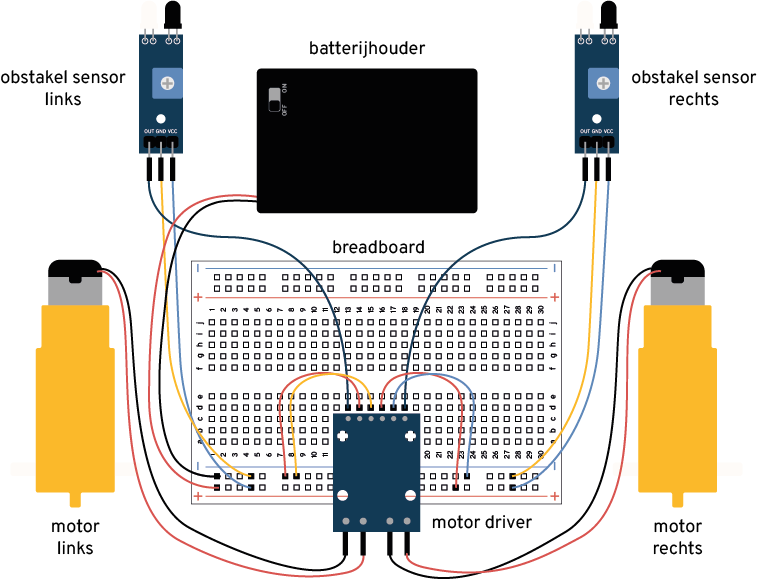
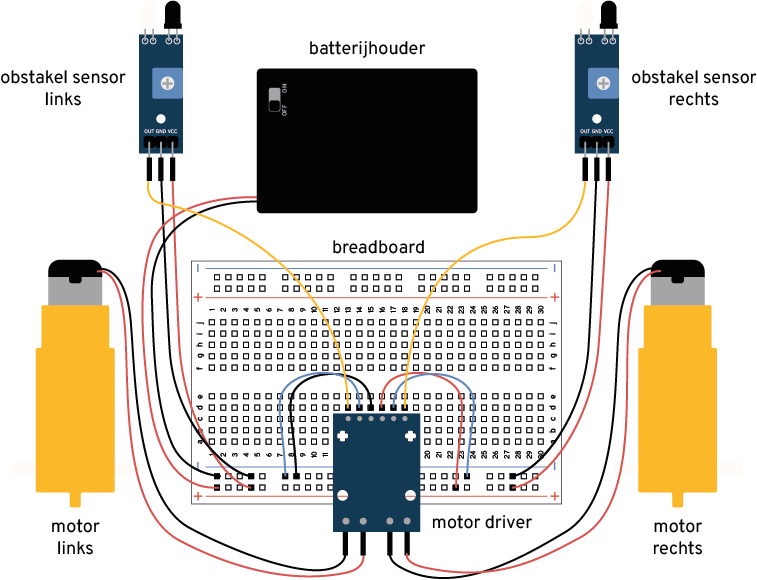
image fix in lesson 4
And also a few mistakes in the text are adjusted.

diff --git a/lite/_sections/mirte-lite/mirte-lite-les4.rst b/lite/_sections/mirte-lite/mirte-lite-les4.rst
@@ -372,7 +372,7 @@ Les 4: Elektronica aansluiten
 
 .. container:: smaller70
 
-   Als je alles hebt aangesloten, kun je nu de robot testen. Til de robot op en schuif het knopje op de batterijhouder van OFF naar ON om de stroomkring te sluiten. Als het goed is draaien nu beide wielen naar voren. Houd nu je hand voor de rechter obstakel sensor. Nu zou het linker wiel moeten stoppen draaien. Houd vervolgens je hand voor de linker obstakel sensor. Nu hoort het rechter wiel te stoppen met draaien.
+   Als je alles hebt aangesloten, kun je nu de robot testen. Til de robot op en schuif het knopje op de batterijhouder van OFF naar ON om de stroomkring te sluiten. Als het goed is draaien nu beide wielen naar voren. Houd nu je hand voor de rechter obstakelsensor. Nu zou het linker wiel moeten stoppen met draaien. Houd vervolgens je hand voor de linker obstakelsensor. Nu hoort het rechter wiel te stoppen met draaien.
 
 .. raw:: html
 

diff --git a/lite/_sections/mirte-lite/mirte-lite-les2.rst b/lite/_sections/mirte-lite/mirte-lite-les2.rst
@@ -320,7 +320,7 @@ Les 2: Ontwerpen en bouwen
     <img loading="lazy" src="_static/media/mirte-lite/mirte-lite-les2/obstakelsensoren.png" style="width:auto; height:110px;">
     <div style="clear: both;"></div>
 
-    <div class="smaller40">2 obstakel sensoren</div>
+    <div class="smaller40">2 obstakelsensoren</div>
 
     </div>
 
